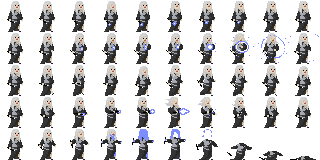
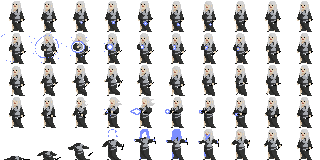
adding wizzards

diff --git a/orcs-hunter/game.js b/orcs-hunter/game.js
@@ -308,6 +308,18 @@ var GameLayer = cc.Layer.extend({
         this.orcs.push(d);
     },
 
+    spawnWizzard: function() {
+        var baseY = this.castle.getOrcBaseY();
+        var baseX = cc.winSize.width + 50;
+        var w = new Wizzard(this);
+        if (!w.init()) return;
+        var jitterX = baseX + (Math.random() * 40 - 20);
+        var jitterY = baseY + (Math.random() * 20 - 10);
+        w.setPosition(jitterX, jitterY);
+        this.addChild(w, 3);
+        this.orcs.push(w);
+    },
+
     spawnDragon: function() {
         var d = new cc.Dragon(this);
         var pos = d.getPosition();
@@ -344,6 +356,8 @@ var GameLayer = cc.Layer.extend({
                         this.spawnOrc();
                     } else if (evt.type === "big-orc") {
                         this.spawnBigOrc();
+                    } else if (evt.type === "wizzard") {
+                        this.spawnWizzard();
                     } else if (evt.type === "death") {
                         this.spawnDeath();
                     } else if (evt.type === "dragon") {

diff --git a/orcs-hunter/index.html b/orcs-hunter/index.html
@@ -12,6 +12,7 @@
     <script type="text/javascript" src="Orc.js" charset="UTF-8"></script>
     <script type="text/javascript" src="BigOrc.js" charset="UTF-8"></script>
     <script type="text/javascript" src="Death.js" charset="UTF-8"></script>
+    <script type="text/javascript" src="Wizzard.js" charset="UTF-8"></script>
     <script type="text/javascript" src="castle.js" charset="UTF-8"></script>
     <script type="text/javascript" src="background.js" charset="UTF-8"></script>
     <script type="text/javascript" src="Dragon.js" charset="UTF-8"></script>
@@ -31,6 +32,7 @@
                     "assets/orc.png",
                     "assets/big-orc.png",
                     "assets/death.png",
+                    "assets/wizzard.png",
                     "assets/castle-tileset.png",
                     "assets/bg-tileset.png",
                     "assets/dragon-red.png"

diff --git a/orcs-hunter/Wizzard.js b/orcs-hunter/Wizzard.js
@@ -1,0 +1,27 @@
+// Wizzard.js
+// A stronger variant of Orc that deals double power damage, using the wizard sprite.
+
+var Wizzard = Orc.extend({
+    // Override attack power (2 points per attack loop)
+    attackPower: 2,
+
+    // Override health for wizard enemies (HP points)
+    maxHealth: 4,
+    health: 4,
+
+    /**
+     * Initialize with its specific texture.
+     * @returns {boolean} true if initialization succeeded
+     */
+    init: function() {
+        var texture = cc.textureCache.addImage("assets/wizzard.png");
+        if (!texture) {
+            console.error("Failed to load wizzard.png");
+            return false;
+        }
+        return this._super(texture);
+    }
+});
+
+// Expose globally
+window.Wizzard = Wizzard;

diff --git a/Agents.md b/Agents.md
@@ -17,6 +17,7 @@ in the /orcs-hunter folder there are files with javascript code that implement t
 /orcs-hunter/game.js contains the code for the game, which is a tower defense game where the player controls the elf to defend the castle from waves of orcs and dragons. The game uses Cocos 2D V3.13 sdk which is available at /orcs-hunter/cocos2d/cocos2d-js-v3.13.js.
 /orcs-hunter/project.json contains the project configuration.
 /orcs-hunter/waves.json contains the waves of enemies to be spawned.
+/orcs-hunter/Wizzard.js contains the code for the wizard enemy, which is a stronger variant based on BigOrc logic and is depicted by the /orcs-hunter/assets/wizzard.png file.
 
 ## Castle Wars
 *Agents used in the Castle Wars game*
